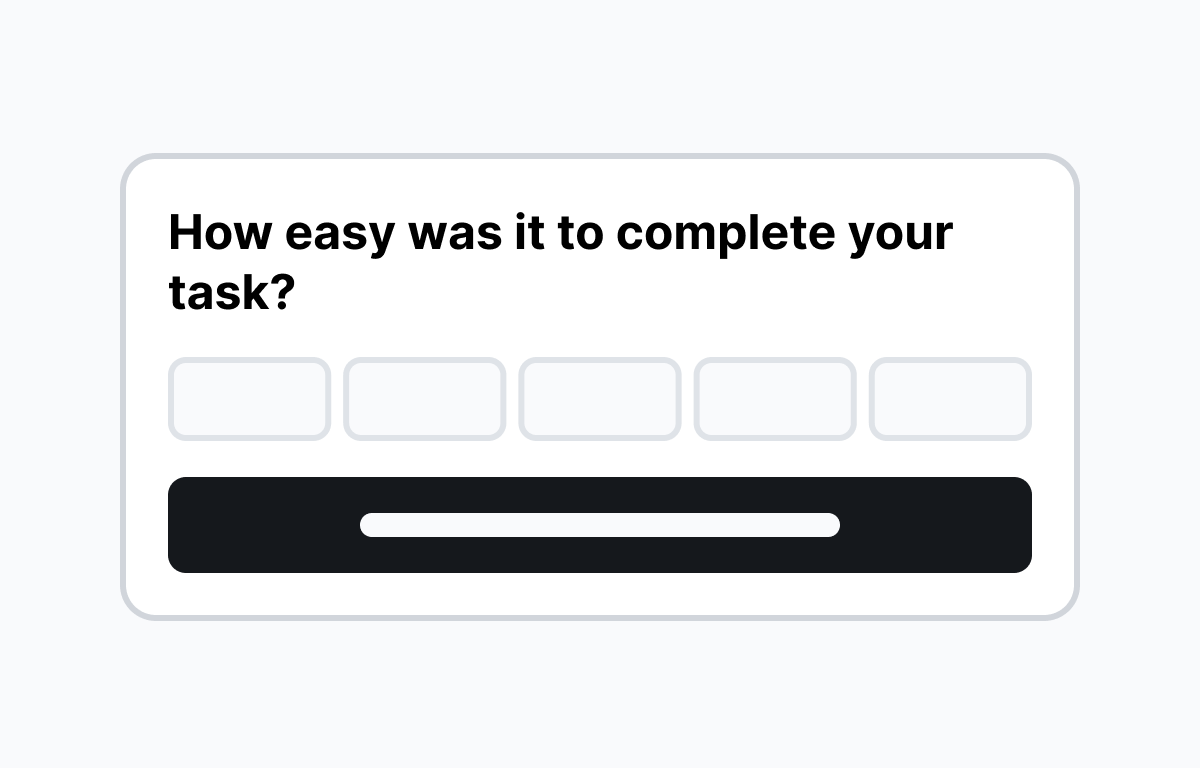
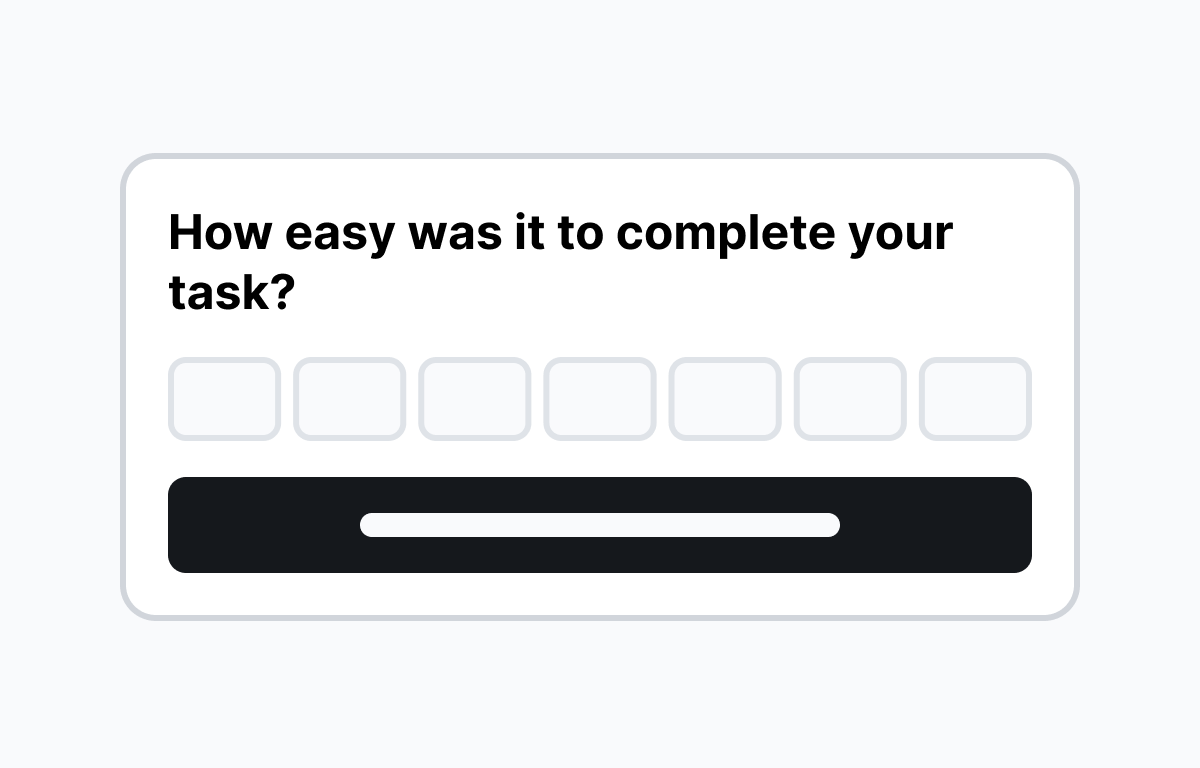
feat(app): add 1-7 rating option for survey question (#2231)
* feat(app): add 1-7 rating option for survey question

* update docs

diff --git a/apps/web/src/app/examples/ces-survey/content.tsx b/apps/web/src/app/examples/ces-survey/content.tsx
@@ -70,7 +70,7 @@ export const cesSurveyContent: ContentType = {
       </Paragraph>
       <UnorderedList>
         <li>
-          <strong>Effort rating</strong>: a 1-5 scale asking how easy it was to complete the task,
+          <strong>Effort rating</strong>: a 1-7 scale asking how easy it was to complete the task,
           with "Very difficult" and "Very easy" labels at each end.
         </li>
         <li>

diff --git a/examples/ces-survey/README.md b/examples/ces-survey/README.md
@@ -10,7 +10,7 @@ This example shows how to collect Customer Effort Score feedback in a React app 
 
 When a user enters the workflow, the survey popover appears in the bottom-right corner of the screen. The survey walks users through three steps:
 
-1. **Effort rating**: a 1-5 scale asking how easy it was to complete the task, with "Very difficult" and "Very easy" labels at each end.
+1. **Effort rating**: a 1-7 scale asking how easy it was to complete the task, with "Very difficult" and "Very easy" labels at each end.
 2. **Follow-up question**: an open-ended freeform text field asking what could be made easier. Marked as optional so users can skip it.
 3. **End screen**: a thank-you message acknowledging the response before the popover closes automatically.
 
